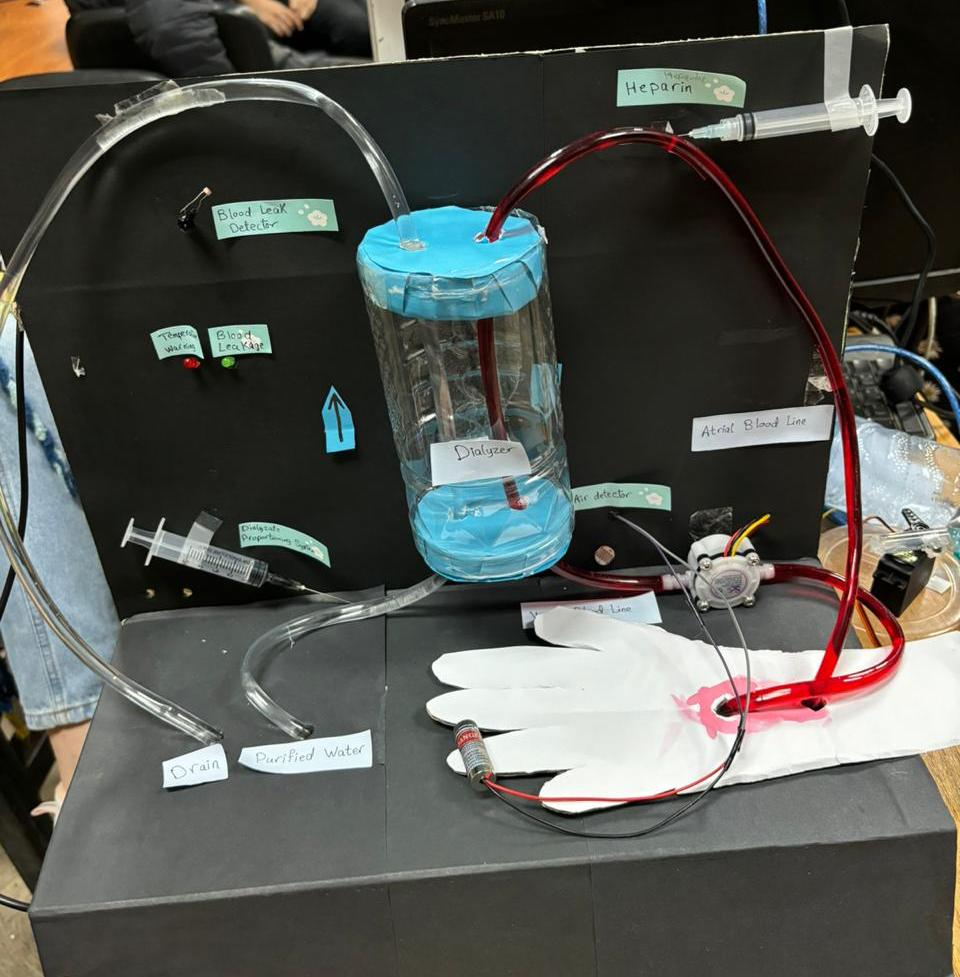
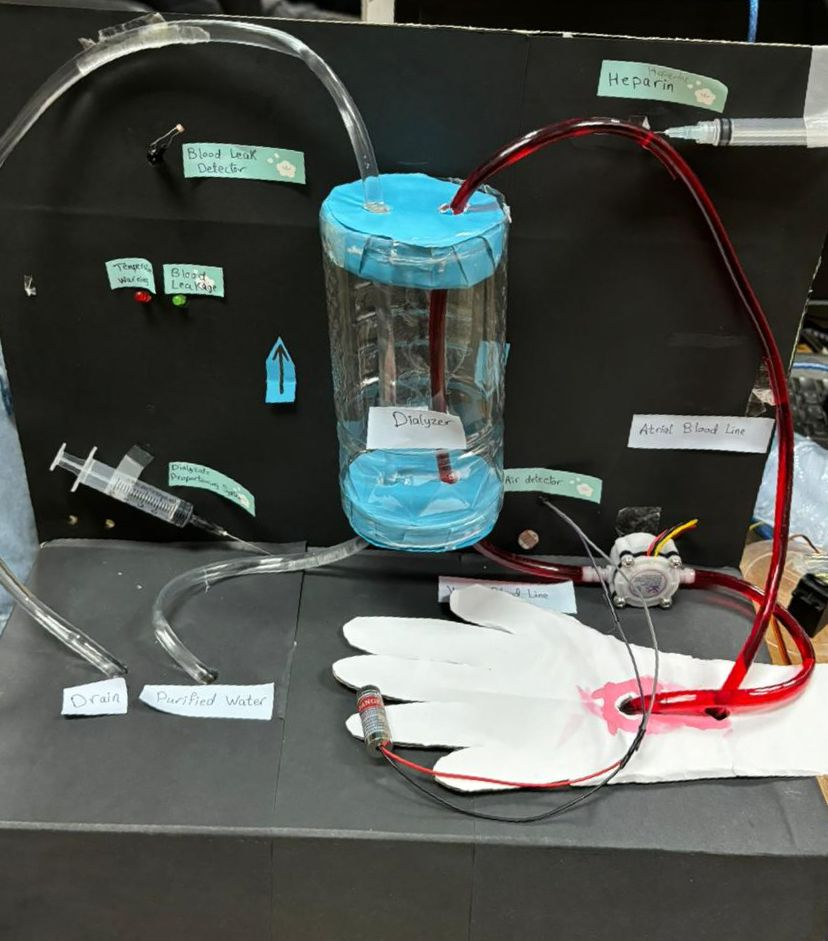
Added a LED indicator for temperature in the dialysate and updated the readme

diff --git a/README.md b/README.md
@@ -4,7 +4,7 @@
 
 ## Overview
 
-This project involves the development of a hemodialysis machine using Arduino microcontrollers. The machine consists of two main circuits: the dialysate circuit and the blood circuit. Each circuit is designed to monitor and control specific aspects of the dialysis process to ensure patient safety and treatment efficacy.
+This project involves the development of a hemodialysis machine using Arduino microcontroller. The machine consists of two main circuits: the dialysate circuit and the blood circuit. Each circuit is designed to monitor and control specific aspects of the dialysis process to ensure patient safety and treatment efficacy.
 
 ## Features
 
@@ -25,11 +25,20 @@ This project involves the development of a hemodialysis machine using Arduino mi
 2. [Laser Modules](https://makerselectronics.com/product/laser-module-5v)
 3. [LDR Sensors](https://www.ram-e-shop.com/ar/shop/ldr-big-20mm-ldr-big-20mm-photoresistor-cds-5936)
 4. [DC Pumps](https://www.ram-e-shop.com/ar/shop/dc-pump-6vdc-water-pump-3-6vdc-mini-120l-h-7422)
-5. [Relays](https://www.ram-e-shop.com/ar/shop/kit-sla-30a-1relay-1-output-relay-30a-module-works-on-5v-signal-sku-sla30-7643)
+5. [5V Relays](https://www.ram-e-shop.com/ar/shop/kit-sla-30a-1relay-1-output-relay-30a-module-works-on-5v-signal-sku-sla30-7643)
 6. [Servo Motors](https://www.ram-e-shop.com/ar/shop/servo-fs5103b-fs5103b-servo-motor-180deg-3-2-kg-cm-plastic-gears-7119)
 7. [Water Flow Rate Sensor YFS401](https://www.ram-e-shop.com/ar/shop/sen-yfs401-water-flow-yfs401-water-flow-sensor-g1-8-8058)
-8. Arduino Uno (2 units)
-9. Breadboard and Jumper Wires
+8. [Arduino Uno](https://store.fut-electronics.com/products/arduino-uno) 2 units
+9. [Breadboard](https://store.fut-electronics.com/collections/boards/products/breadboard-840-pin)
+10. [Jumper Wires](https://store.fut-electronics.com/products/male-female-jumper-wire-400-mm)
+11. [5V Buzzers](https://store.fut-electronics.com/products/buzzer-5v)
+12. [Red and Yellow LEDs](https://www.ram-e-shop.com/ar/shop/led-rr-led-5-mm-red-color-5921)
+13. [5V, 5W Heating Pad](https://www.ram-e-shop.com/ar/shop/heating-pad-5v-5w-heating-pad-5v-5w-size-5x10cm-8216)
+14. 220 and 10k ohm Resistors
+15. Tubes
+16. Containers/Bottles
+**Note:** In a real-world application, the bottle used in this prototype should be replaced with a proper medical-grade dialyzer to ensure optimal performance and safety.
+
 
 ## Wiring Diagram
 
@@ -41,12 +50,32 @@ This project involves the development of a hemodialysis machine using Arduino mi
   - DATA to Digital Pin 2
 
 - **Heating Pad (5V, 5W):**
-  - Connected via relay controlled by Digital Pin 3
+  - Connected via relay controlled by Digital Pin 8
 
 - **LDR Sensor for Blood Leakage:**
-  - VCC to 5V
-  - GND to GND
-  - Signal to Analog Pin A0
+  - Anode to 5V
+  - Cathode to Analog Pin A0
+  - Cathode also connected to one end of a 10k ohm resistor
+  - Other end of the 10k ohm resistor to GND
+- **Relays:**
+  - Relay 1 (Dialysate Pump):
+    - IN to Digital Pin 9
+    - VCC to 5V
+    - GND to GND
+  
+  - Relay 2 (Heating Pad):
+    - IN to Digital Pin 8
+    - VCC to 5V
+    - GND to GND
+
+- **LED indicators:**
+  - Red LED (for Blood Leakage):
+    - Anode to Digital Pin 4 through a 220 ohm resistor
+    - Cathode to GND
+  - Yellow LED (for Temperature Below Limit):
+    - Anode to Digital Pin 5 through a 220 ohm resistor
+    - Cathode to GND
+
 
 ### Blood Circuit
 
@@ -61,18 +90,24 @@ This project involves the development of a hemodialysis machine using Arduino mi
     - GND to GND
     - Signal to Digital Pin 4
   - LDR:
-    - VCC to 5V
-    - GND to GND
-    - Signal to Analog Pin A1
+    - Anode to 5V
+    - Cathode to Analog Pin A0
+    - Cathode also connected to one end of a 10k ohm resistor
+    - Other end of the 10k ohm resistor to GND
 
 - **Servo Motor (for Clamp):**
-  - Signal to Digital Pin 5
+  - Signal to Digital Pin 9
 
-- **Relays:**
-  - Relay 1 (Blood Pump):
-    - IN to Digital Pin 6
-    - VCC to 5V
-    - GND to GND
+- **Buzzer:**
+  - VCC to Digital Pin 4
+  - GND to GND
+
+- **Relay(Blood Pump):**
+  - IN to Digital Pin 3
+  - VCC to 5V
+  - GND to GND
+
+
 
 ### Power and Control
 
